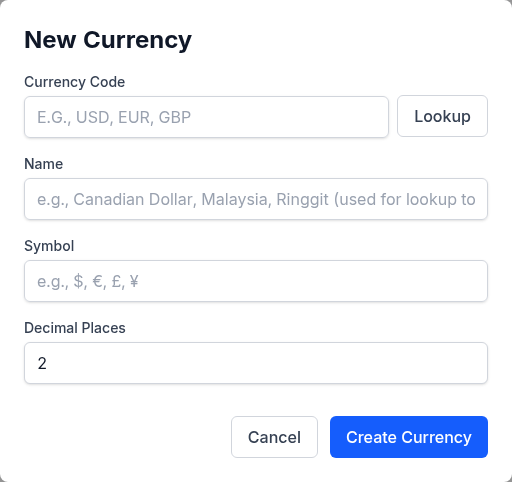
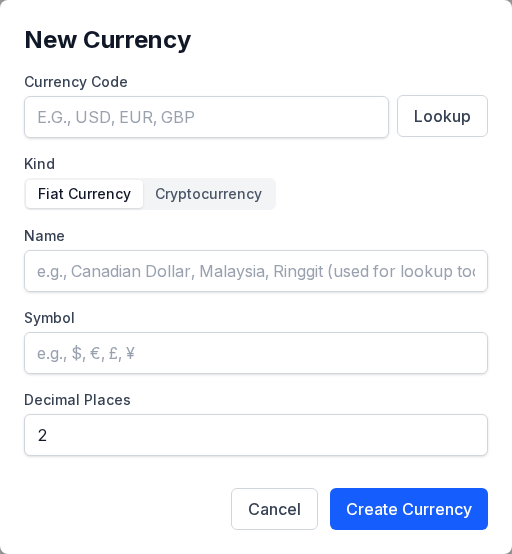
docs(website): retake the New Currency and warranty Edit Transaction pictures
The New Currency form gained the Fiat / Cryptocurrency kind toggle and the
Edit Transaction form moved Tags beside Status and Attachments beside
Warranties, but the two documentation pictures were not retaken with those
changes. Recapture both in dark and light, recompress them losslessly and
regenerate the two pages, whose figures carry the image dimensions.

diff --git a/website/docs/warranties.html b/website/docs/warranties.html
@@ -28,7 +28,7 @@
 <p>A duration that lands on a day the month does not have ends on the month&#x27;s last day: 1 month from January 31 is February 28. When you edit a warranty later, <strong>Coverage ends</strong> shows the end date it was saved with.</p>
 <h2 id="adding-one-from-a-transaction">Adding One From a Transaction<a class="hlink" href="#adding-one-from-a-transaction" aria-label="Link to this section">#</a></h2>
 <p>Most warranties start from a purchase in your register. Open the transaction&#x27;s edit window on the <strong>Transactions</strong> page: its <strong>Warranties</strong> section lists the warranties already linked to it, each with its status and end date, and offers <strong>Add warranty</strong>.</p>
-<figure><img src="/docs/images/warranties-transaction-form.png" alt="The transaction edit window with its Warranties section listing the linked headphones warranty, and the warranty&#x27;s documents among the transaction&#x27;s attachments" width="1104" height="1090" loading="lazy" decoding="async" class="shot-dark"/><img src="/docs/images/warranties-transaction-form.light.png" alt="The transaction edit window with its Warranties section listing the linked headphones warranty, and the warranty&#x27;s documents among the transaction&#x27;s attachments" width="1104" height="1090" loading="lazy" decoding="async" class="shot-light"/><figcaption>The transaction edit window with its Warranties section listing the linked headphones warranty, and the warranty&#x27;s documents among the transaction&#x27;s attachments</figcaption></figure>
+<figure><img src="/docs/images/warranties-transaction-form.png" alt="The transaction edit window with its Warranties section listing the linked headphones warranty, and the warranty&#x27;s documents among the transaction&#x27;s attachments" width="1104" height="840" loading="lazy" decoding="async" class="shot-dark"/><img src="/docs/images/warranties-transaction-form.light.png" alt="The transaction edit window with its Warranties section listing the linked headphones warranty, and the warranty&#x27;s documents among the transaction&#x27;s attachments" width="1104" height="840" loading="lazy" decoding="async" class="shot-light"/><figcaption>The transaction edit window with its Warranties section listing the linked headphones warranty, and the warranty&#x27;s documents among the transaction&#x27;s attachments</figcaption></figure>
 <p><strong>Add warranty</strong> takes you to the Warranties page with the form pre-filled from the transaction: the name (the payee, or the description), the vendor, the purchase date, the price and the currency. A form with unsaved changes asks first; a new transaction is saved before you leave it. A split transaction fills in its whole amount, so edit the price before saving if the warranty covers only one item. One transaction can carry several warranties (three items on one receipt are three warranties).</p>
 <figure><img src="/docs/images/warranties-add-from-transaction.png" alt="The New warranty form pre-filled from an Amazon.ca purchase, with the default one-year duration and the end date it works out" width="672" height="1010" loading="lazy" decoding="async" class="shot-dark"/><img src="/docs/images/warranties-add-from-transaction.light.png" alt="The New warranty form pre-filled from an Amazon.ca purchase, with the default one-year duration and the end date it works out" width="672" height="1010" loading="lazy" decoding="async" class="shot-light"/><figcaption>The New warranty form pre-filled from an Amazon.ca purchase, with the default one-year duration and the end date it works out</figcaption></figure>
 <p>After you save, the Warranties page shows only that transaction&#x27;s warranties (<strong>Warranties for one transaction</strong>); <strong>Show all warranties</strong> clears it.</p>

diff --git a/website/docs/currency-management.html b/website/docs/currency-management.html
@@ -16,7 +16,7 @@
 <li>Check the details and click <strong>Create Currency</strong></li>
 </ol>
 <p>If the code is already in your list but inactive, the form offers <strong>Reactivate</strong> instead.</p>
-<figure><img src="/docs/images/currency-form.png" alt="The New Currency form" width="512" height="482" loading="lazy" decoding="async" class="shot-dark"/><img src="/docs/images/currency-form.light.png" alt="The New Currency form" width="512" height="482" loading="lazy" decoding="async" class="shot-light"/><figcaption>The New Currency form</figcaption></figure>
+<figure><img src="/docs/images/currency-form.png" alt="The New Currency form" width="512" height="554" loading="lazy" decoding="async" class="shot-dark"/><img src="/docs/images/currency-form.light.png" alt="The New Currency form" width="512" height="554" loading="lazy" decoding="async" class="shot-light"/><figcaption>The New Currency form</figcaption></figure>
 <p>You can also add a currency without leaving a transaction: the transaction form&#x27;s currency picker has <strong>Add currency...</strong>.</p>
 <p>A code that is not an ISO 4217 code is accepted too, and the form notes that it is not a standard currency code. If it is a cryptocurrency, click <strong>Use Cryptocurrency</strong> and see <a href="#cryptocurrencies">Cryptocurrencies</a> below.</p>
 <h2 id="cryptocurrencies">Cryptocurrencies<a class="hlink" href="#cryptocurrencies" aria-label="Link to this section">#</a></h2>
